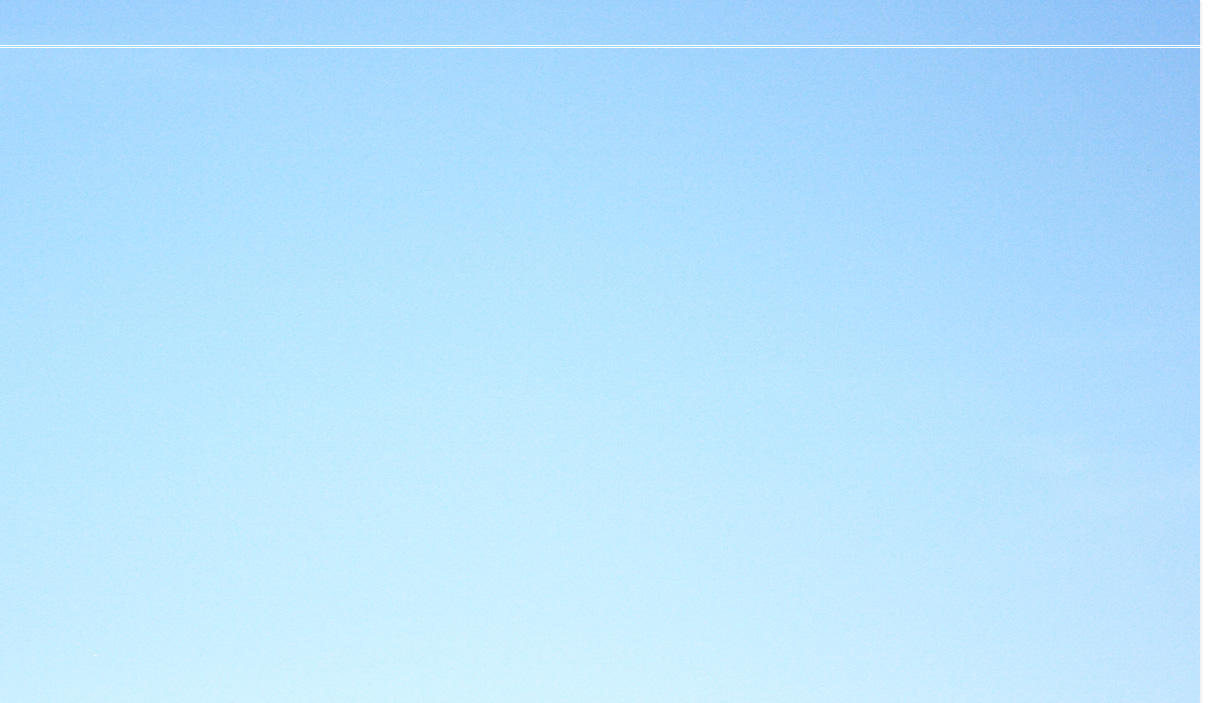
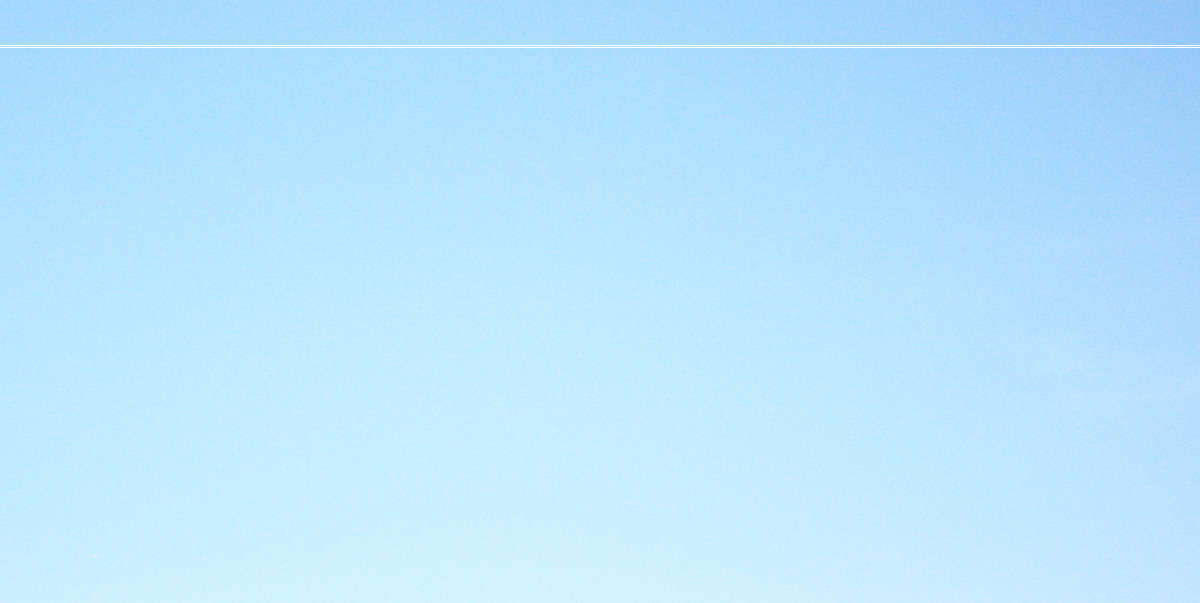
Got bg to work

Changed region(s): [[0.0, 0.0, 1.0, 1.0]]

diff --git a/themes/skyblue/css/layout.css b/themes/skyblue/css/layout.css
@@ -4,11 +4,16 @@
  
 body {
   margin:0; 
-  padding:0;
-  background:#fff url(../images/sitebg_tile.jpg) repeat-y 0 0;
+  padding:0 0 97px 0;
+  background:#fff url(../images/sitebg_bottom.jpg) no-repeat 0 100%;
 }
-  #second-body{
+  #second-body {
     width:100%;
+    background:#fff url(../images/sitebg_tile.jpg) repeat-y 0 0;
+  }
+  #third-body {
+    width:100%;
+    min-height:600px;
     background:url(../images/sitebg_top.jpg) no-repeat 0 0;
   }
   #top-bar{
@@ -66,13 +71,14 @@ body {
 
 #footer {
   z-index:3;
-  width:100%;
-  height:97px;
+  width:960px;
   overflow:hidden;
   bottom:0;
+  position:absolute;
 }
   #footer .inner{
     margin:0 auto;
     padding:0 10px;
-    width:920px;
+    height:30px;
+    border:1px solid green;
   }

diff --git a/themes/skyblue/css/style.css b/themes/skyblue/css/style.css
@@ -237,7 +237,7 @@
 /* Footer */
 
 #footer{
-  background:url(../images/sitebg_bottom.jpg) no-repeat 0 100%;
+  /* background:url(../images/sitebg_bottom.jpg) no-repeat 0 100%; */
   font-family: Georgia, "Times New Roman", Times, serif;
   color:#4d4d4d;
   color:rgba(255,255,255,0.3);
